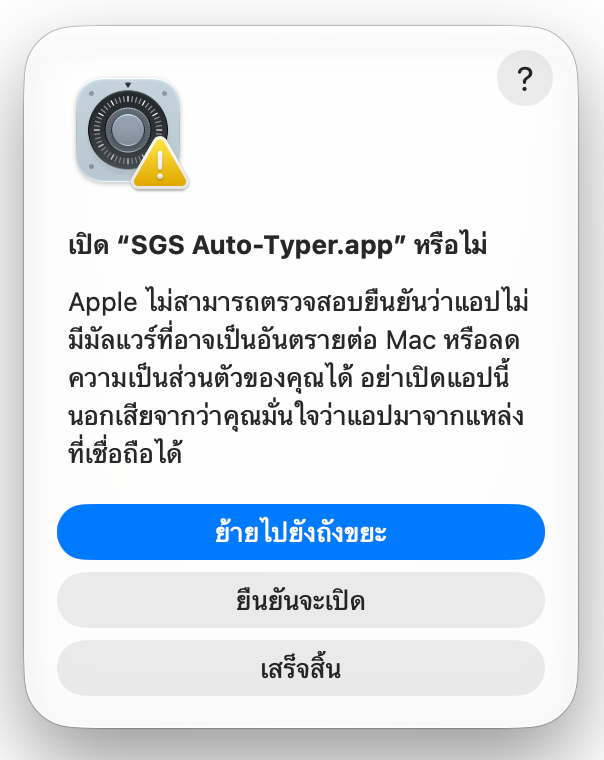
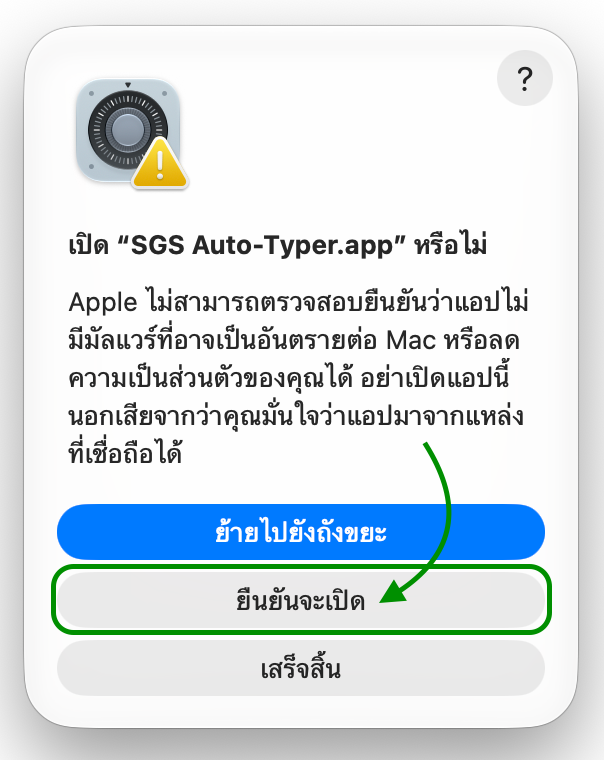
Publish store pages from 7394d733e613dca386348170b794166af504c4b6

Changed region(s): [[0.0596, 0.6053, 0.9238, 0.8474], [0.6854, 0.575, 0.7152, 0.6053]]

diff --git a/sgs-auto-typer.html b/sgs-auto-typer.html
@@ -239,6 +239,37 @@
   .platform-head:first-of-type{margin-top:38px}
   .platform-head + .steps{margin-top:18px}
 
+  /* The Mac walkthrough: two columns rather than three, because a settings
+     window at one third of 1064px is a picture of text nobody can read.
+     Every shot is also a link to its own full-size file, which is the only
+     zoom a page with no script can offer. */
+  .steps.two{grid-template-columns:repeat(2,minmax(0,1fr));column-gap:34px}
+  @media (max-width:820px){.steps.two{grid-template-columns:1fr;column-gap:0}}
+  .step-intro{
+    color:#b9bcc1;font-size:15.5px;line-height:1.75;max-width:68ch;margin-top:14px;
+  }
+  .step-shot{
+    display:block;margin-top:20px;border-radius:10px;
+    transition:opacity .15s ease;
+  }
+  .step-shot:hover{opacity:.86}
+  /* These captures carry the window's own shadow in their alpha, so they sit
+     straight on the dark band -- a frame of our own would read as a second
+     window drawn around the first. */
+  .step-shot picture{display:block}
+  .step-shot img{display:block;width:100%;height:auto}
+  .step .warn{
+    display:block;margin-top:7px;font-style:normal;
+    color:#f0b64c;font-size:14.5px;
+  }
+  .done-shot{
+    margin:44px auto 0;max-width:640px;
+  }
+  .done-shot picture,.done-shot img{display:block;width:100%;height:auto}
+  .done-shot figcaption{
+    margin-top:14px;text-align:center;color:#b9bcc1;font-size:14.5px;line-height:1.7;
+  }
+
   /* download */
   .dl-grid{display:grid;grid-template-columns:repeat(2,minmax(0,1fr));gap:20px;margin-top:40px}
   @media (max-width:760px){.dl-grid{grid-template-columns:1fr}}
@@ -528,41 +559,166 @@
           ต่างจากบน Mac ที่ต้องเปิดสิทธิ์ Accessibility ก่อนหนึ่งครั้ง
         </p>
 
-        <h3 class="platform-head">บน Mac — สามขั้นตอน</h3>
-        <div class="steps">
+        <h3 class="platform-head">บน Mac — ทำตามภาพทีละขั้น</h3>
+        <p class="step-intro">
+          <strong>ก่อนอื่น</strong> แตกไฟล์ .zip ที่ดาวน์โหลดมา แล้วลาก
+          <strong>SGS Auto-Typer.app</strong> ไปไว้ในโฟลเดอร์
+          <strong>แอปพลิเคชัน (Applications)</strong> ก่อนเสมอ
+          เพราะแอปที่ยังอยู่ในโฟลเดอร์ดาวน์โหลดจะถูกบล็อกซ้ำทุกครั้งที่เปิด จากนั้นทำตามภาพทีละขั้น
+        </p>
+        <p class="step-intro">
+          ภาพทุกภาพมาจาก macOS ภาษาไทย ปุ่มที่ต้องกดวงไว้ด้วยกรอบสีเขียว
+          กดที่ภาพเพื่อดูขนาดเต็ม ชื่อปุ่มภาษาอังกฤษอยู่ในวงเล็บ เผื่อเครื่องของคุณครูตั้งเป็นภาษาอังกฤษ
+        </p>
+        <div class="steps two">
           <div class="step">
             <div class="n">1</div>
-            <h3>ย้ายไปที่ Applications</h3>
-            <p>แตกไฟล์ zip ที่ดาวน์โหลดมา แล้วลาก <strong>SGS Auto-Typer.app</strong> ไปไว้ในโฟลเดอร์ <strong>Applications</strong></p>
+            <h3>เปิดครั้งแรก แล้วกด เสร็จสิ้น</h3>
+            <p>
+              ดับเบิลคลิกที่แอป จะขึ้นกล่องข้อความว่า <strong>ไม่ได้เปิด “SGS Auto-Typer.app”</strong>
+              ให้กด <strong>เสร็จสิ้น (Done)</strong>
+              กล่องนี้ขึ้นเพราะแอปยังไม่ได้ซื้อใบรับรองผู้พัฒนาจาก Apple ไม่ได้แปลว่าไฟล์มีปัญหา
+              <em class="warn">อย่ากดปุ่มสีฟ้า ย้ายไปยังถังขยะ (Move to Trash)</em>
+            </p>
+            <a class="step-shot" href="./images/v.1.2.1-sgs-setup1.png" target="_blank" rel="noopener">
+              <picture>
+                <source srcset="./images/v.1.2.1-sgs-setup1.webp" type="image/webp">
+                <img src="./images/v.1.2.1-sgs-setup1.png" width="604" height="594" loading="lazy"
+                     alt="กล่องข้อความ ไม่ได้เปิด SGS Auto-Typer.app มีปุ่ม เสร็จสิ้น วงไว้ด้วยกรอบสีเขียว">
+              </picture>
+            </a>
           </div>
           <div class="step">
             <div class="n">2</div>
-            <h3>เปิดครั้งแรก</h3>
+            <h3>เปิดการตั้งค่าระบบ แล้วกด ยืนยันจะเปิด</h3>
             <p>
-              macOS จะเตือนว่ามาจาก “นักพัฒนาที่ไม่ระบุตัวตน”<br>
-              <strong>macOS 13–14:</strong> คลิกขวาที่ไอคอนแอป เลือก Open แล้วกด Open อีกครั้ง<br>
-              <strong>macOS 15 ขึ้นไป:</strong> ดับเบิลคลิกหนึ่งครั้ง จะโดนบล็อก จากนั้นเปิด การตั้งค่าระบบ (System Settings) → ความเป็นส่วนตัวและความปลอดภัย (Privacy &amp; Security) กด <strong>ยืนยันจะเปิด (Open Anyway)</strong>
+              ไปที่ <strong>การตั้งค่าระบบ (System Settings)</strong> →
+              <strong>ความเป็นส่วนตัวและความปลอดภัย (Privacy &amp; Security)</strong>
+              เลื่อนลงไปที่หัวข้อ <strong>ความปลอดภัย (Security)</strong>
+              จะเห็นบรรทัดว่า “SGS Auto-Typer.app” ถูกปิดกั้นเพื่อปกป้อง Mac ของคุณ
+              ให้กดปุ่ม <strong>ยืนยันจะเปิด (Open Anyway)</strong> ที่ท้ายบรรทัด
             </p>
+            <a class="step-shot" href="./images/v.1.2.1-sgs-setup2.png" target="_blank" rel="noopener">
+              <picture>
+                <source srcset="./images/v.1.2.1-sgs-setup2.webp" type="image/webp">
+                <img src="./images/v.1.2.1-sgs-setup2.png" width="1834" height="1710" loading="lazy"
+                     alt="หน้าการตั้งค่าระบบ หัวข้อความเป็นส่วนตัวและความปลอดภัย มีปุ่ม ยืนยันจะเปิด วงไว้ด้วยกรอบสีเขียว">
+              </picture>
+            </a>
           </div>
           <div class="step">
             <div class="n">3</div>
-            <h3>เปิดสิทธิ์ Accessibility</h3>
-            <p>ในแอปกดปุ่ม <kbd>?</kbd> มุมขวาบน แล้วในขั้นตอนที่ 1 กด <strong>ขอสิทธิ์และเปิดการตั้งค่า</strong> macOS จะเปิดหน้าตั้งค่าให้ จากนั้นเลื่อนหาโปรแกรม SGS Auto-Typer แล้วเปิดสวิตช์</p>
+            <h3>ยืนยันอีกครั้ง</h3>
+            <p>
+              จะมีกล่องถามซ้ำว่า <strong>เปิด “SGS Auto-Typer.app” หรือไม่</strong>
+              ให้กด <strong>ยืนยันจะเปิด (Open Anyway)</strong> ซึ่งเป็นปุ่มกลาง
+              <em class="warn">ปุ่มสีฟ้าด้านบนคือ ย้ายไปยังถังขยะ (Move to Trash) อย่ากดปุ่มนั้น</em>
+            </p>
+            <a class="step-shot" href="./images/v.1.2.1-sgs-setup3.png" target="_blank" rel="noopener">
+              <picture>
+                <source srcset="./images/v.1.2.1-sgs-setup3.webp" type="image/webp">
+                <img src="./images/v.1.2.1-sgs-setup3.png" width="604" height="760" loading="lazy"
+                     alt="กล่องข้อความ เปิด SGS Auto-Typer.app หรือไม่ มีปุ่ม ยืนยันจะเปิด วงไว้ด้วยกรอบสีเขียว">
+              </picture>
+            </a>
+          </div>
+          <div class="step">
+            <div class="n">4</div>
+            <h3>ใส่รหัสผ่านหรือใช้ Touch ID</h3>
+            <p>
+              macOS จะขอให้ยืนยันตัวตนด้วย <strong>Touch ID</strong>
+              หรือกด <strong>ใช้รหัสผ่าน… (Use Password…)</strong> แล้วพิมพ์รหัสผ่านเครื่อง
+              ต้องเป็นรหัสของผู้ดูแลระบบเครื่องนั้น หลังจากขั้นนี้แอปจะเปิดขึ้นมา
+              และครั้งต่อ ๆ ไปจะเปิดได้เลยโดยไม่ต้องทำขั้นที่ 1 ถึง 4 อีก
+            </p>
+            <a class="step-shot" href="./images/v.1.2.1-sgs-setup4.png" target="_blank" rel="noopener">
+              <picture>
+                <source srcset="./images/v.1.2.1-sgs-setup4.webp" type="image/webp">
+                <img src="./images/v.1.2.1-sgs-setup4.png" width="587" height="682" loading="lazy"
+                     alt="กล่องขอ Touch ID หรือรหัสผ่านของผู้ดูแลระบบ">
+              </picture>
+            </a>
+          </div>
+          <div class="step">
+            <div class="n">5</div>
+            <h3>ในแอป กด เปิดการตั้งค่าระบบ</h3>
+            <p>
+              แอปจะขึ้นกรอบสีส้มด้านบนว่า <strong>ต้องอนุญาตการเข้าถึงก่อน</strong>
+              เพราะยังไม่ได้รับอนุญาตให้ควบคุมเครื่องแทนคุณครู จึงยังพิมพ์คะแนนให้ไม่ได้
+              ให้กดปุ่มสีฟ้า <strong>เปิดการตั้งค่าระบบ (Open System Settings)</strong> ในกรอบนั้น
+              แอปจะพาไปหน้าที่ถูกต้องและเพิ่มชื่อตัวเองให้เอง
+            </p>
+            <a class="step-shot" href="./images/v.1.2.1-sgs-setup5.png" target="_blank" rel="noopener">
+              <picture>
+                <source srcset="./images/v.1.2.1-sgs-setup5.webp" type="image/webp">
+                <img src="./images/v.1.2.1-sgs-setup5.png" width="1896" height="1900" loading="lazy"
+                     alt="หน้าต่างโปรแกรม มีกรอบสีส้ม ต้องอนุญาตการเข้าถึงก่อน และปุ่ม เปิดการตั้งค่าระบบ วงไว้ด้วยกรอบสีเขียว">
+              </picture>
+            </a>
+          </div>
+          <div class="step">
+            <div class="n">6</div>
+            <h3>กด เปิดการตั้งค่าระบบ ในกล่องที่ขึ้นมา</h3>
+            <p>
+              macOS จะถามซ้ำในกล่องชื่อ <strong>การควบคุมอุปกรณ์และการเข้าถึงข้อมูล</strong>
+              ว่า “SGS Auto-Typer.app” ต้องการที่จะควบคุม Mac เครื่องนี้และเข้าถึงข้อมูลของคุณ
+              ให้กด <strong>เปิดการตั้งค่าระบบ (Open System Settings)</strong>
+              <em class="warn">ไม่ใช่ปุ่มสีฟ้า ปฏิเสธ (Deny)</em>
+            </p>
+            <a class="step-shot" href="./images/v.1.2.1-sgs-setup6.png" target="_blank" rel="noopener">
+              <picture>
+                <source srcset="./images/v.1.2.1-sgs-setup6.webp" type="image/webp">
+                <img src="./images/v.1.2.1-sgs-setup6.png" width="1146" height="586" loading="lazy"
+                     alt="กล่องการควบคุมอุปกรณ์และการเข้าถึงข้อมูล มีปุ่ม เปิดการตั้งค่าระบบ และปุ่มสีฟ้า ปฏิเสธ">
+              </picture>
+            </a>
+          </div>
+          <div class="step">
+            <div class="n">7</div>
+            <h3>เปิดสวิตช์หน้าชื่อแอป</h3>
+            <p>
+              ในรายการ <strong>การควบคุมอุปกรณ์และการเข้าถึงข้อมูล
+              (Device Control and Data Access)</strong>
+              เลื่อนหา <strong>SGS Auto-Typer.app</strong> แล้วเปิดสวิตช์ให้เป็นสีฟ้า
+              ถ้าไม่พบชื่อแอปในรายการ กดปุ่ม <strong>+</strong> มุมล่างซ้าย
+              แล้วเลือกแอปจากโฟลเดอร์ Applications
+            </p>
+            <a class="step-shot" href="./images/v.1.2.1-sgs-setup7.png" target="_blank" rel="noopener">
+              <picture>
+                <source srcset="./images/v.1.2.1-sgs-setup7.webp" type="image/webp">
+                <img src="./images/v.1.2.1-sgs-setup7.png" width="1834" height="1596" loading="lazy"
+                     alt="รายการแอปในหัวข้อการควบคุมอุปกรณ์และการเข้าถึงข้อมูล สวิตช์ของ SGS Auto-Typer.app เปิดอยู่">
+              </picture>
+            </a>
           </div>
         </div>
 
+        <figure class="done-shot">
+          <a href="./images/v.1.2.1-sgs-setup8-complete.png" target="_blank" rel="noopener">
+            <picture>
+              <source srcset="./images/v.1.2.1-sgs-setup8-complete.webp" type="image/webp">
+              <img src="./images/v.1.2.1-sgs-setup8-complete.png" width="1896" height="1900" loading="lazy"
+                   alt="หน้าต่างโปรแกรมหลังตั้งค่าเสร็จ ไม่มีกรอบสีส้มแล้ว เริ่มใช้งานได้">
+            </picture>
+          </a>
+          <figcaption>
+            เสร็จแล้วหน้าตาจะเป็นแบบนี้ กรอบสีส้มหายไป เหลือแค่สี่ขั้นตอนการใช้งาน
+            ถ้ากรอบยังอยู่ทั้งที่เปิดสวิตช์แล้ว ให้ปิดโปรแกรมแล้วเปิดใหม่อีกครั้ง
+          </figcaption>
+        </figure>
+
         <p class="note">
-          <strong>หาหัวข้อ Accessibility ในรายการไม่เจอ?</strong>
-          บน macOS รุ่นใหม่ Apple เปลี่ยนชื่อรายการนี้เป็น <strong>Device Control and Data Access</strong>
-          จึงไม่มีคำว่า Accessibility ให้เห็น วิธีที่ได้ผลทุกรุ่นคือพิมพ์ <strong>accessibility</strong>
-          ในช่องค้นหามุมซ้ายบนของ System Settings แล้วเลือกผลลัพธ์
-          “Allow assistive applications to control the computer” ที่มีคำว่า Privacy &amp; Security อยู่ใต้ชื่อ
-          จากนั้นเลื่อนหา SGS Auto-Typer.app แล้วเปิดสวิตช์ ถ้าไม่มีชื่อแอปในรายการ กดปุ่ม + มุมล่างซ้าย
-          แล้วเลือกแอปจากโฟลเดอร์ Applications — ระวังสับสนกับหมวดตั้งค่าใหญ่ชื่อ Accessibility
-          (VoiceOver, ซูม, ขนาดตัวอักษร) ซึ่งเป็นคนละอันกัน
+          <strong>บน macOS รุ่นเก่ากว่านี้</strong> หน้าตาจะต่างไปบ้าง
+          บน macOS 13–14 ให้คลิกขวาที่ไอคอนแอปแล้วเลือก เปิด (Open) แล้วกด เปิด (Open) อีกครั้ง
+          แทนขั้นที่ 1 ถึง 4 และรายการสิทธิ์ในขั้นที่ 7 จะใช้ชื่อว่า
+          <strong>การเข้าถึง (Accessibility)</strong> แทน
+          ถ้าหาไม่เจอ ให้พิมพ์ <strong>accessibility</strong> ในช่องค้นหามุมซ้ายบนของการตั้งค่าระบบ
+          แล้วเลือกผลลัพธ์ “Allow assistive applications to control the computer”
+          ที่มีคำว่า Privacy &amp; Security อยู่ใต้ชื่อ —
+          ระวังสับสนกับหมวดตั้งค่าใหญ่ชื่อ การเข้าถึง (Accessibility)
+          ที่มี VoiceOver ซูม และขนาดตัวอักษร ซึ่งเป็นคนละอันกัน
           และทุกครั้งที่ดาวน์โหลดแอปเวอร์ชันใหม่ อาจต้องเปิดสวิตช์นี้ใหม่อีกครั้ง
         </p>
-
       </div>
     </section>
   </div>
@@ -651,7 +807,7 @@
       <div class="features">
         <div class="feature">
           <h3>กดเริ่มแล้วไม่มีอะไรเกิดขึ้น (Mac)</h3>
-          <p>ยังไม่ได้เปิดสิทธิ์ Accessibility หรือเพิ่งเปิดแต่ยังไม่ได้ปิด-เปิดแอปใหม่ ดูขั้นตอนที่ 3 ของหัวข้อติดตั้ง</p>
+          <p>ยังไม่ได้เปิดสิทธิ์ให้แอปควบคุมเครื่อง หรือเพิ่งเปิดแต่ยังไม่ได้ปิด-เปิดแอปใหม่ ดูขั้นตอนที่ 5 ถึง 7 ของหัวข้อติดตั้ง</p>
         </div>
         <div class="feature">
           <h3>กดเริ่มแล้วไม่มีอะไรเกิดขึ้น (Windows)</h3>
